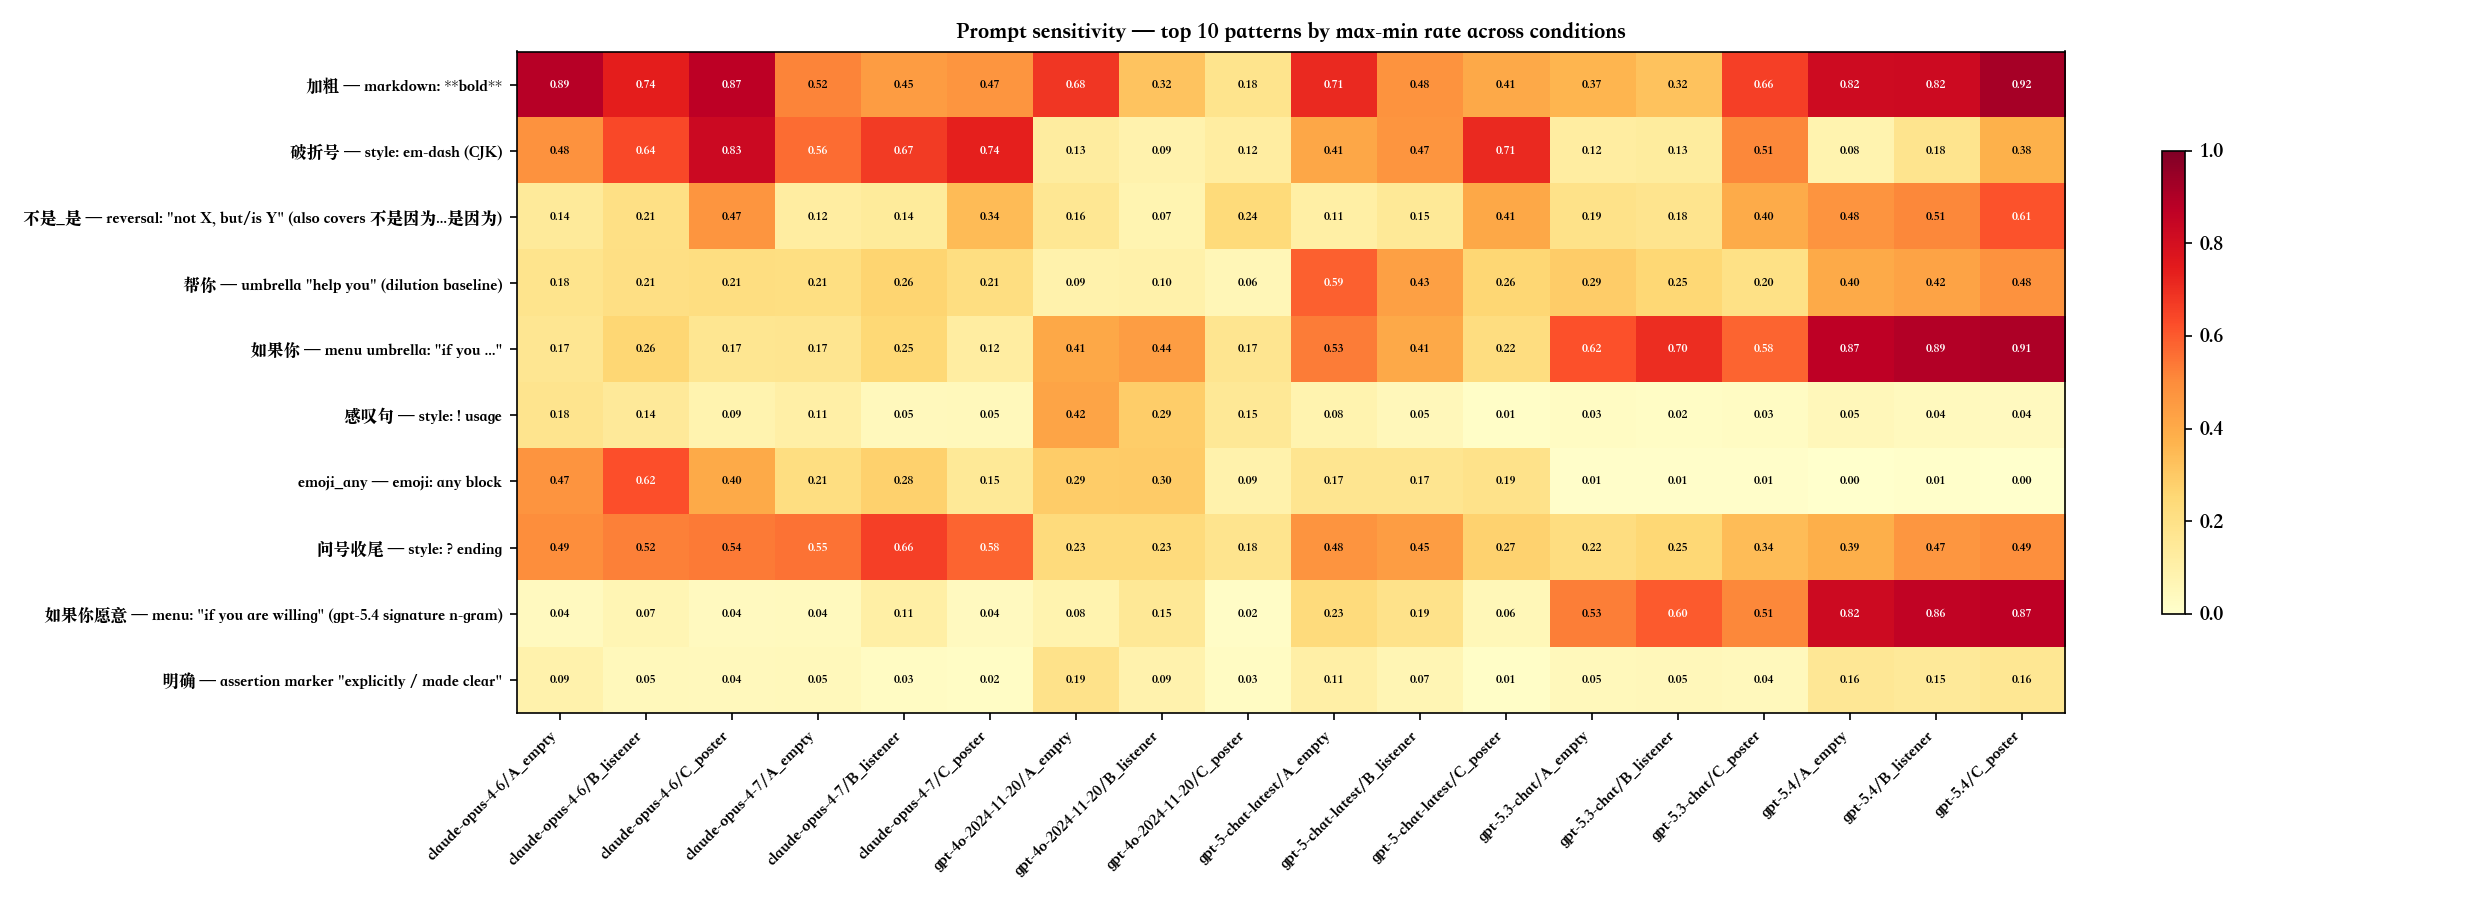
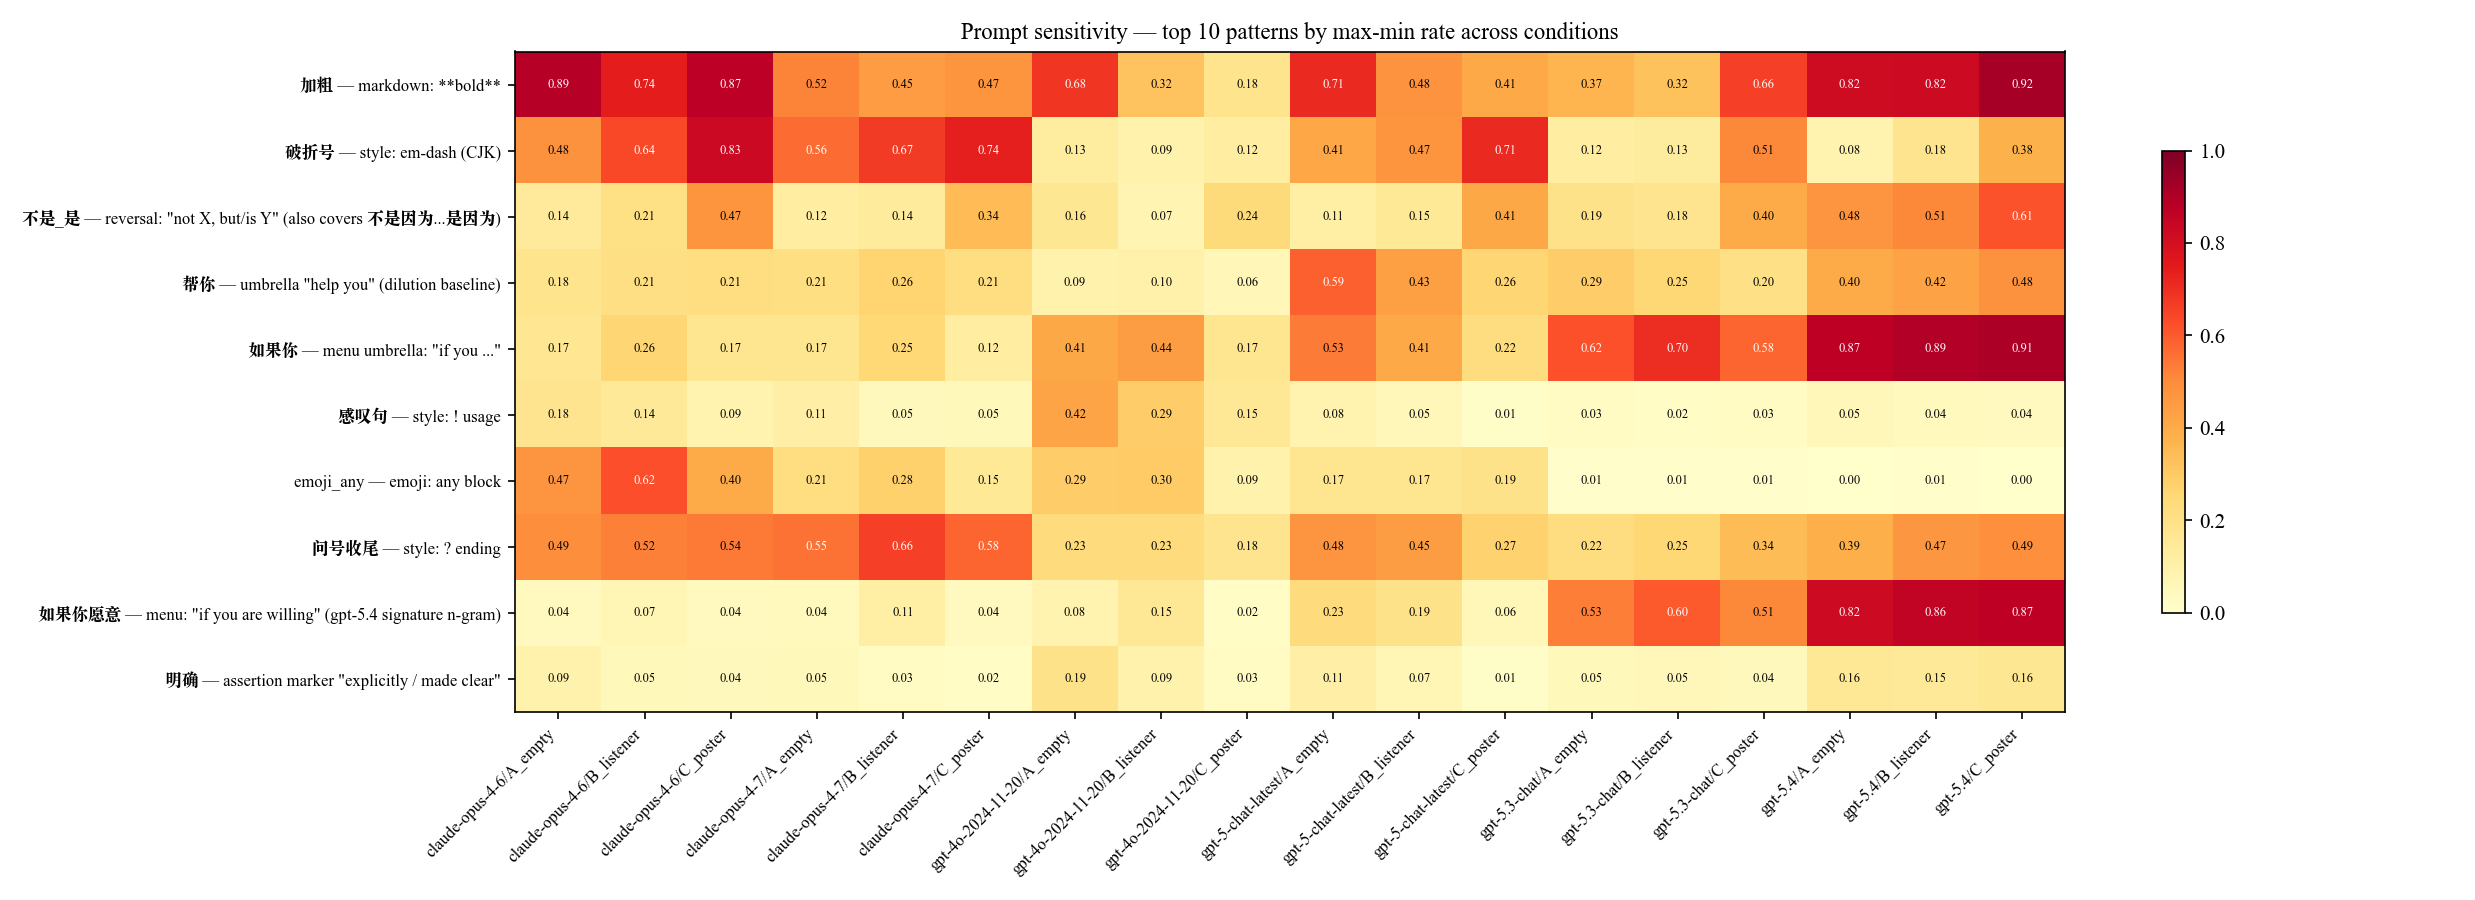
Use Times New Roman for Latin + Songti SC for CJK via per-glyph fallback
Set font.family directly to a concrete font-name list (TNR, Songti SC,
DejaVu Serif) instead of resolving through the "serif" generic family.
matplotlib only performs per-glyph fallback when font.family holds the
concrete list; a generic category resolves to one font and CJK renders
as tofu whenever the primary lacks the glyph. With this change Latin
text renders in TNR and CJK cleanly falls back to Songti SC.

diff --git a/src/visualize.py b/src/visualize.py
@@ -29,15 +29,14 @@ FIG = ANA / "figures"
 
 
 def configure_cjk_font():
-    """Find a single font file that has BOTH Latin and CJK, register it."""
-    # prefer fonts that cover both CJK and Latin in one file.
-    # order chosen to match the Linux AR PL UMing serif/Ming look of the
-    # original figures — Songti / uming are both Ming-style CJK serifs.
-    preferred_paths = [
+    """Set up per-glyph font fallback: Times New Roman for Latin, a Ming
+    serif CJK font for Chinese. matplotlib >=3.6 picks the first font in
+    the family list that has a given glyph, so the order is TNR → CJK."""
+    cjk_paths = [
         # Linux arphic uming — the ORIGINAL rendering font
         "/usr/share/fonts/truetype/arphic/uming.ttc",
         "/usr/share/fonts/truetype/arphic-gbsn00lp/gbsn00lp.ttf",
-        # macOS (Songti = Ming serif, closest match; others are sans-serif fallbacks)
+        # macOS (Songti = Ming serif, closest match)
         "/System/Library/Fonts/Supplemental/Songti.ttc",
         "/System/Library/Fonts/Hiragino Sans GB.ttc",
         "/System/Library/Fonts/STHeiti Medium.ttc",
@@ -50,19 +49,41 @@ def configure_cjk_font():
         "C:/Windows/Fonts/msyh.ttc",
         "C:/Windows/Fonts/simhei.ttf",
     ]
-    chosen = next((p for p in preferred_paths if Path(p).exists()), None)
-    if chosen:
-        fm.fontManager.addfont(chosen)
-        # derive the font's actual name and set it as primary
-        name = fm.FontProperties(fname=chosen).get_name()
-        plt.rcParams["font.sans-serif"] = [name, "DejaVu Sans"]
-        plt.rcParams["font.family"] = "sans-serif"
-        plt.rcParams["axes.unicode_minus"] = False
-        print(f"Font: {name} ({chosen})")
-        return name
+    latin_paths = [
+        # macOS
+        "/System/Library/Fonts/Supplemental/Times New Roman.ttf",
+        # Windows
+        "C:/Windows/Fonts/times.ttf",
+        # Linux TNR metric-compatible
+        "/usr/share/fonts/truetype/liberation/LiberationSerif-Regular.ttf",
+        "/usr/share/fonts/truetype/liberation2/LiberationSerif-Regular.ttf",
+    ]
+
+    cjk = next((p for p in cjk_paths if Path(p).exists()), None)
+    latin = next((p for p in latin_paths if Path(p).exists()), None)
+
+    family = []
+    if latin:
+        fm.fontManager.addfont(latin)
+        latin_name = fm.FontProperties(fname=latin).get_name()
+        family.append(latin_name)
+    if cjk:
+        fm.fontManager.addfont(cjk)
+        cjk_name = fm.FontProperties(fname=cjk).get_name()
+        family.append(cjk_name)
+    family.append("DejaVu Serif")  # matplotlib-bundled final fallback
+
+    # IMPORTANT: put the specific-font list in font.family directly (not in
+    # font.serif with family="serif"). matplotlib only does per-glyph
+    # fallback when font.family is a list of concrete font names; using a
+    # generic category resolves to a single font and tofu appears instead.
+    plt.rcParams["font.family"] = family
     plt.rcParams["axes.unicode_minus"] = False
-    print("WARN: no CJK font found; Chinese may render as tofu.")
-    return None
+
+    print(f"Font chain: {family}")
+    if not cjk:
+        print("WARN: no CJK font found; Chinese may render as tofu.")
+    return family[0] if family else None
 
 
 def plot_cosine_heatmap():

diff --git a/scripts/patterns_by_category.py b/scripts/patterns_by_category.py
@@ -35,9 +35,10 @@ KEY_PATTERNS = ["加粗", "不是_是", "接住", "给你X", "如果你愿意"]
 
 
 def configure_font():
-    # order matches src/visualize.py — Linux uming (original) first, then
-    # macOS Songti (closest serif Ming match), then sans-serif fallbacks.
-    for p in [
+    # Per-glyph fallback: Times New Roman for Latin, Ming serif for CJK.
+    # matplotlib >=3.6 walks the family list per-glyph, so order matters:
+    # TNR first → CJK second.
+    cjk_paths = [
         "/usr/share/fonts/truetype/arphic/uming.ttc",
         "/usr/share/fonts/truetype/arphic-gbsn00lp/gbsn00lp.ttf",
         "/System/Library/Fonts/Supplemental/Songti.ttc",
@@ -49,14 +50,29 @@ def configure_font():
         "/usr/share/fonts/opentype/noto/NotoSansCJK-Regular.ttc",
         "C:/Windows/Fonts/msyh.ttc",
         "C:/Windows/Fonts/simhei.ttf",
-    ]:
+    ]
+    latin_paths = [
+        "/System/Library/Fonts/Supplemental/Times New Roman.ttf",
+        "C:/Windows/Fonts/times.ttf",
+        "/usr/share/fonts/truetype/liberation/LiberationSerif-Regular.ttf",
+        "/usr/share/fonts/truetype/liberation2/LiberationSerif-Regular.ttf",
+    ]
+    family = []
+    for p in latin_paths:
         if Path(p).exists():
             fm.fontManager.addfont(p)
-            name = fm.FontProperties(fname=p).get_name()
-            plt.rcParams["font.sans-serif"] = [name, "DejaVu Sans"]
-            plt.rcParams["font.family"] = "sans-serif"
-            plt.rcParams["axes.unicode_minus"] = False
-            return
+            family.append(fm.FontProperties(fname=p).get_name())
+            break
+    for p in cjk_paths:
+        if Path(p).exists():
+            fm.fontManager.addfont(p)
+            family.append(fm.FontProperties(fname=p).get_name())
+            break
+    family.append("DejaVu Serif")
+    # matplotlib only does per-glyph fallback when font.family holds the
+    # concrete font-name list; a generic category resolves to one font.
+    plt.rcParams["font.family"] = family
+    plt.rcParams["axes.unicode_minus"] = False
 
 
 def main():
